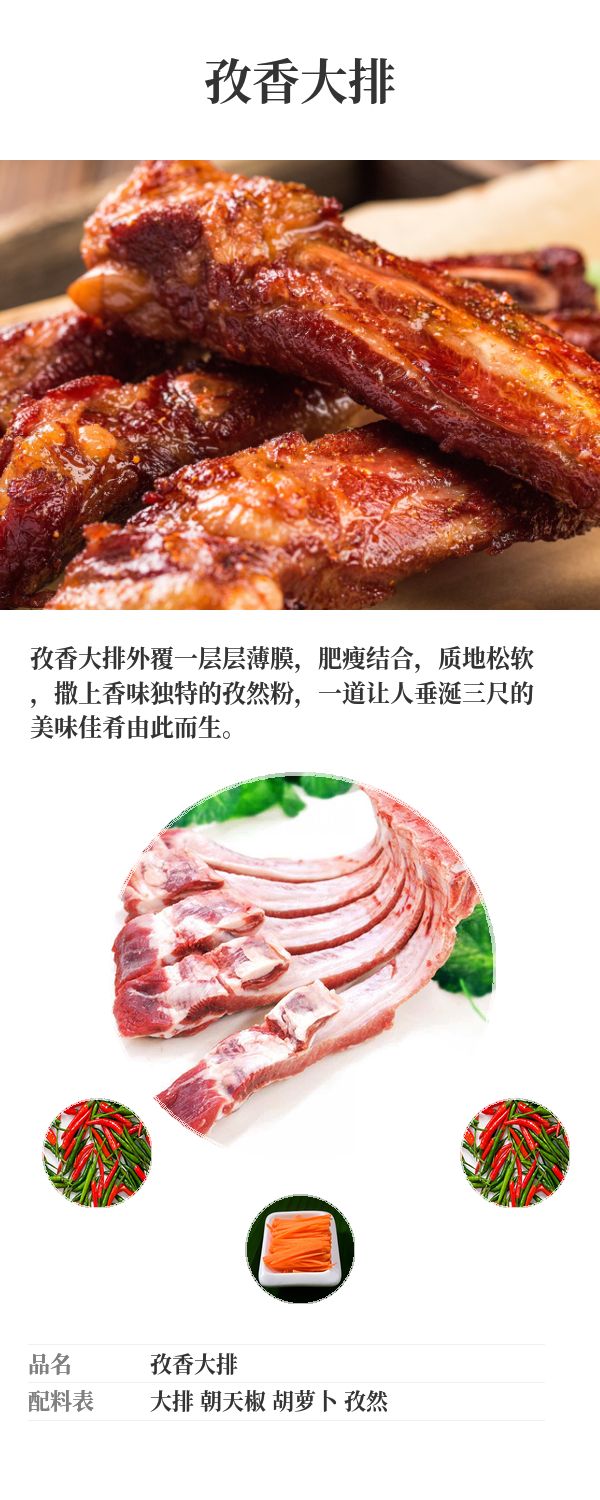
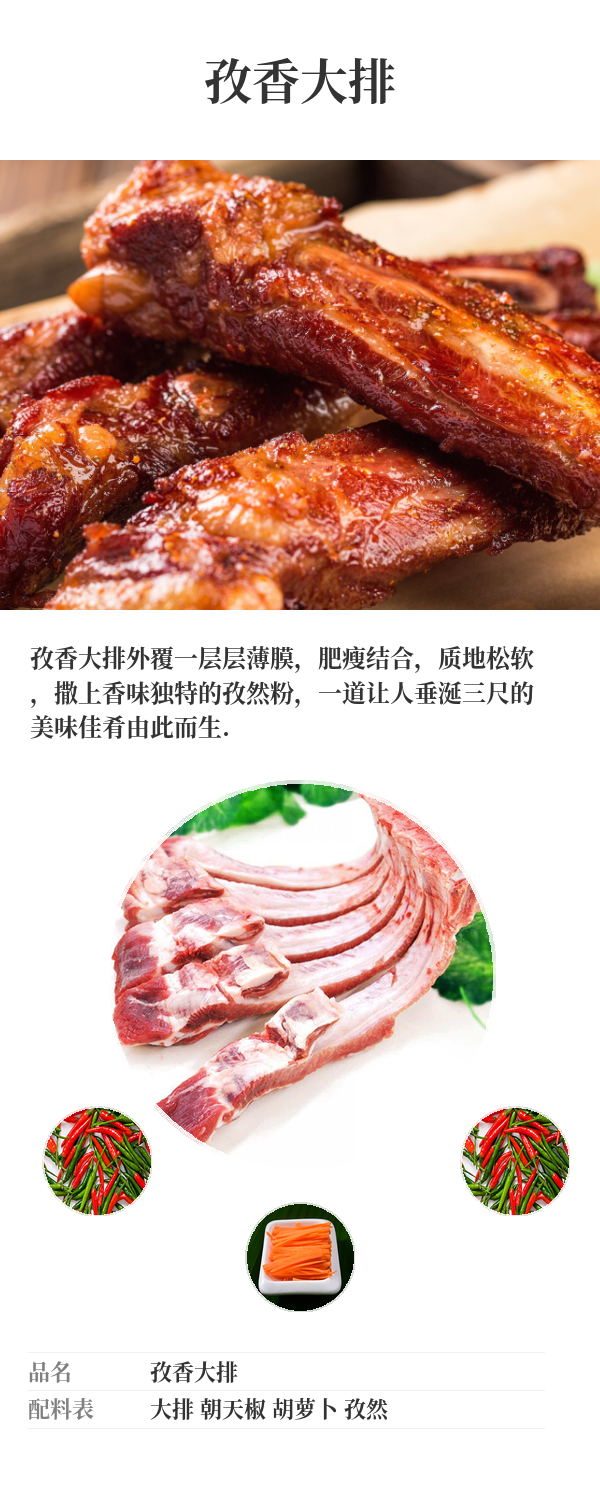
初步完成

diff --git a/index.py b/index.py
@@ -13,7 +13,7 @@ config = {
         "desc_spacing": 6,
         "c_radius": 196,
         "c_children_radius": 55,
-        'c_and_children_border_color': 'green',
+        'c_and_children_border_color': 'purple',
     }
 }
 
@@ -98,6 +98,9 @@ def gen_menu(image_dir, menu_name):
     #     [name, ext] = path.splitext(mat_file)
     #     print(name, ext)
 
+    # 绘制背景
+    draw.rectangle((0, 0, full_width, full_height), 'white')
+
     # 标题绘制, top_0-160_mid
     font_title = ImageFont.truetype('SourceHanSerifCN-Bold', 48) # 不写.ttf后缀会自动搜索非.ttf字体
     text_color_normal = '#333'
@@ -124,20 +127,32 @@ def gen_menu(image_dir, menu_name):
     desc_str_arr = map(lambda arr: ''.join(arr), desc_arr)
     processed_desc_str = '\n'.join(desc_str_arr)
     [line_width_processed_desc, line_height_processed_desc] = draw.textsize(processed_desc_str, font=font_desc)
+    line_height_processed_desc = 68
     print('[line_width_processed_desc, line_height_processed_desc]', [line_width_processed_desc, line_height_processed_desc])
     draw.multiline_text((30, 640), processed_desc_str, font=font_desc, fill=fill_color_desc, align="left", spacing=desc_spacing)
 
-    # 计算desc区域高度: 不含上方margin 含下方margin
-    desc_height = line_height_processed_desc * int(lines_desc) - desc_spacing - (int(lines_desc) * 28);
-    print('desc_height: %s\n' % desc_height)
-
     # 子菜绘制
     ## 主子菜
-    c_top = int(650 + desc_height);
+    c_top = int(650 + line_height_processed_desc * int(lines_desc) - desc_spacing);
+    int_lines_desc = math.ceil(lines_desc)
+    print('int_lines_desc %i' % int_lines_desc)
+    if int_lines_desc == 1:
+        c_top += 70;
+    elif int_lines_desc == 2:
+        c_top += 40;
+    elif int_lines_desc == 3:
+        pass
+    elif int_lines_desc == 4:
+        c_top -= 20;
+        pass
+
     c0_top = int(c_top + 326)
     c1_top = int(c_top + c_radius * 2 + 30)
     c2_top = c0_top
+
     if 'c' in mat_config:
+
+        # drawCircleAvatar(avatar, to_img)
         draw_circle(c_radius * 2, mat_config['c']['file'], to_img, (int(full_width / 2 - c_radius), c_top), outline_color = c_and_children_border_color, outline_width = 4)
 
     ## 子菜0-2 0_left 1_mid 2_right
@@ -148,6 +163,9 @@ def gen_menu(image_dir, menu_name):
         draw_circle(c_children_radius * 2, mat_config['c1']['file'], to_img, (int(full_width / 2 - c_children_radius), c1_top), outline_color = c_and_children_border_color, outline_width = 2)
     if 'c2' in mat_config:
         draw_circle(c_children_radius * 2, mat_config['c2']['file'], to_img, (int(full_width - c_children_radius * 2 - 30), c2_top), outline_color = c_and_children_border_color, outline_width = 2)
+
+    # circle_new(to_img, (int(full_width / 2 - c_radius), c_top))
+    avatar = Image.open('images/孜香大排/main.jpg')
 
     # 底部品名 配料表
     foot_desc_1_title = '品名'
@@ -174,9 +192,32 @@ def gen_menu(image_dir, menu_name):
     to_img.save(path.join(image_dir, '../output/' + menu_name) + '.png')
 
 '''
-def circle_new():
+# 画圆的可用_能理解版本
+def draw_circle_2(w, path, to_img, to_xy, outline_color = None, outline_width = 0):
+    im = Image.open(path).convert("RGBA")
+    im.resize((w, w), Image.ANTIALIAS)
+    # im.resize((100, 100), Image.ANTIALIAS)
+    print('xxx_pre', im.size, (w, w))
+    #遮罩对象
+    mask = Image.new('L', (w,w), 0)
+    draw = ImageDraw.Draw(mask)
+    # mask内圆
+    w_minus_outline_width = w - outline_width
+    draw.ellipse((outline_width, outline_width, w_minus_outline_width, w_minus_outline_width), fill=255)
+    # mask外环
+    draw.ellipse((0, 0) + (w, w), fill=None, outline=outline_color, width=outline_width)
+    mask = mask.resize(im.size, Image.ANTIALIAS)
+    print('xxx', im.size, (w, w), to_xy)
+    im.putalpha(mask)
+    to_img.paste(im, to_xy, im)
+    # im.save('test-11.png')
+'''
+
+'''
+def circle_new(to_img, to_xy):
     ima = Image.open("images/孜香大排/c_大排.png").convert("RGBA")
 
+    size = ima.size
 
     r2 = min(size[0], size[1])
 
@@ -187,6 +228,7 @@ def circle_new():
     circle = Image.new('L', (r2, r2), 0)
 
     draw = ImageDraw.Draw(circle)
+    # draw.rectangle((0, 0, r2, r2), 'white')
 
     draw.ellipse((0, 0, r2, r2), fill=255)
 
@@ -195,29 +237,34 @@ def circle_new():
     alpha.paste(circle, (0, 0))
 
     ima.putalpha(alpha)
+    to_img.putalpha(alpha)
 
+    to_img.paste(ima, to_xy)
     ima.save('test_circle.png')
 '''
 
 # 改图片颜色改outline_color即可
-def draw_circle(r, path, to_img, to_xy, outline_color = None, outline_width = 0):
+def draw_circle(w, path, to_img, to_xy, outline_color = None, outline_width = 0):
     (x, y) = (0, 0)
     ima = Image.open(path).convert("RGBA")
 
-    ima = ima.resize((r, r), Image.ANTIALIAS)
+    ima = ima.resize((w, w), Image.ANTIALIAS)
 
-    circle = Image.new('L', (r, r), 0)
+    circle = Image.new('L', (w, w), 0)
 
     draw = ImageDraw.Draw(circle)
 
-    draw.ellipse((x, y, r, r), fill=255, outline=outline_color, width=outline_width)
+    w_minus_outline_width = w - outline_width
+    draw.ellipse((outline_width, outline_width, w_minus_outline_width, w_minus_outline_width), fill=255)
+    # mask外环
+    draw.ellipse((0, 0) + (w, w), fill=None, outline=outline_color, width=outline_width)
 
-    alpha = Image.new('L', (r, r), 255)
+    alpha = Image.new('L', (w, w), 255)
 
     alpha.paste(circle, (0, 0))
     #
     ima.putalpha(alpha)
-    to_img.paste(ima, to_xy)
+    to_img.paste(ima, to_xy, ima)
 
 def read_materials_and_draw_menus(image_dir):
     for menuName in os.listdir(image_dir):
@@ -228,8 +275,53 @@ def read_materials_and_draw_menus(image_dir):
 def gen():
     read_materials_and_draw_menus(path.join(curDir, 'images'))
 
+'''
+def circle2(path, #to_img, to_xy, outline_color = None, outline_width = 0
+            ):
+    ima = Image.open(path).convert("RGBA")
+
+    size = ima.size
+
+    # 因为是要圆形，所以需要正方形的图片
+
+    r2 = min(size[0], size[1])
+
+    if size[0] != size[1]:
+
+        ima = ima.resize((r2, r2), Image.ANTIALIAS)
+
+    imb = Image.new('RGBA', (r2, r2),(255,255,255,0))
+    draw = ImageDraw.Draw(imb)
+    draw.rectangle((0, 0, r2, r2), 'white')
+
+    pima = ima.load()
+
+    pimb = imb.load()
+
+    r = float(r2/2) #圆心横坐标
+
+    for i in range(r2):
+
+        for j in range(r2):
+
+            lx = abs(i-r+0.5) #到圆心距离的横坐标
+
+            ly = abs(j-r+0.5)#到圆心距离的纵坐标
+
+            l  = pow(lx,2) + pow(ly,2)
+
+            if l <= pow(r, 2):
+
+                pimb[i,j] = pima[i,j]
+    imb.resize((r2, r2), Image.ANTIALIAS)
+
+    imb.save("test_circle.png")
+'''
+
 if __name__ == '__main__':
     gen()
+    # circle_corder_image();
+    # circle2("images/孜香大排/c1_胡萝卜.png")
     # draw_circle((0, 0),  255, "images/孜香大排/c_大排.png",)
     # circle_new()
 
